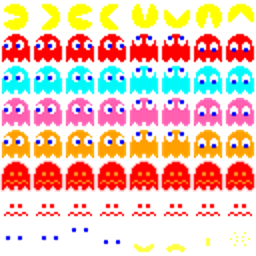
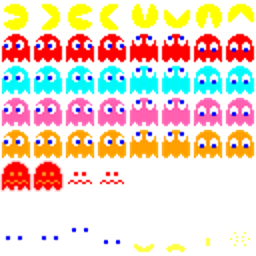
- Updates graphics resource. - Updates Divo animation.

Changed region(s): [[0.25, 0.625, 1.0, 0.75], [0.0, 0.7812, 1.0, 0.8438]]

diff --git a/web/js/game/divo.js b/web/js/game/divo.js
@@ -33,10 +33,10 @@ Divo.prototype.setId = function (divoId) {
     this.animation.add(Movable.ACTION_RIGHT, (divoId + 1) * 8 + 2, (divoId + 1) * 8 + 4, Animation.ON_END_CONTINUE, Movable.TIME_PER_ANI_FRAME);
     this.animation.add(Movable.ACTION_UP, (divoId + 1) * 8 + 4, (divoId + 1) * 8 + 6, Animation.ON_END_CONTINUE, Movable.TIME_PER_ANI_FRAME);
     this.animation.add(Movable.ACTION_DOWN, (divoId + 1) * 8 + 6, (divoId + 1) * 8 + 8, Animation.ON_END_CONTINUE, Movable.TIME_PER_ANI_FRAME);
-    this.animation.add(Movable.ACTION_REVERSE_LEFT, 48, 50, Animation.ON_END_KEEP_LAST_FRAME, Movable.TIME_PER_ANI_FRAME);
-    this.animation.add(Movable.ACTION_REVERSE_RIGHT, 50, 52, Animation.ON_END_KEEP_LAST_FRAME, Movable.TIME_PER_ANI_FRAME);
-    this.animation.add(Movable.ACTION_REVERSE_UP, 52, 54, Animation.ON_END_KEEP_LAST_FRAME, Movable.TIME_PER_ANI_FRAME);
-    this.animation.add(Movable.ACTION_REVERSE_DOWN, 54, 56, Animation.ON_END_KEEP_LAST_FRAME, Movable.TIME_PER_ANI_FRAME);
+    this.animation.add(Movable.ACTION_REVERSE_LEFT, 40, 44, Animation.ON_END_KEEP_LAST_FRAME, Movable.TIME_PER_ANI_FRAME);
+    this.animation.add(Movable.ACTION_REVERSE_RIGHT, 40, 44, Animation.ON_END_KEEP_LAST_FRAME, Movable.TIME_PER_ANI_FRAME);
+    this.animation.add(Movable.ACTION_REVERSE_UP, 40, 44, Animation.ON_END_KEEP_LAST_FRAME, Movable.TIME_PER_ANI_FRAME);
+    this.animation.add(Movable.ACTION_REVERSE_DOWN, 40, 44, Animation.ON_END_KEEP_LAST_FRAME, Movable.TIME_PER_ANI_FRAME);
     this.animation.add(Movable.ACTION_DEAD_LEFT, 56, 57, Animation.ON_END_KEEP_LAST_FRAME, Movable.TIME_PER_ANI_FRAME);
     this.animation.add(Movable.ACTION_DEAD_RIGHT, 57, 58, Animation.ON_END_KEEP_LAST_FRAME, Movable.TIME_PER_ANI_FRAME);
     this.animation.add(Movable.ACTION_DEAD_UP, 58, 59, Animation.ON_END_KEEP_LAST_FRAME, Movable.TIME_PER_ANI_FRAME);

diff --git a/web/js/scenes/play_scene.js b/web/js/scenes/play_scene.js
@@ -23,7 +23,7 @@ function PlayScene() {
     this.imagePacman.onload = function () {
         self.spritePacman.bind(self.imagePacman, 8, 8);
     };
-    this.imageMap.src = "./res/map.png";
+    this.imageMap.src = "./res/map0.png";
     this.imagePacman.src = "./res/pacman.png";
 
     GameData.instance().clear();
